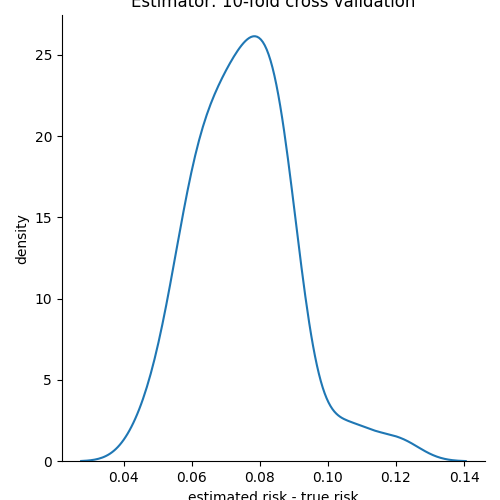
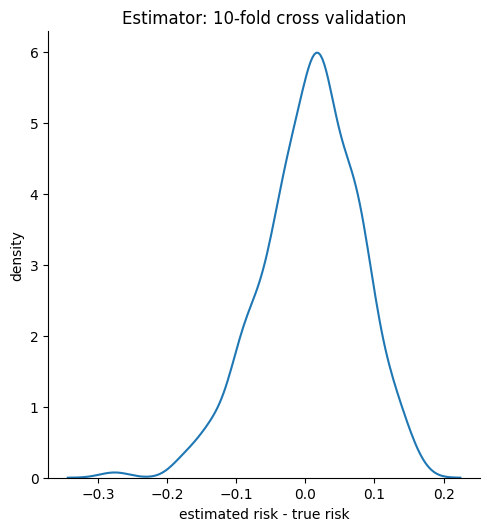
Leave-one-out bug corrected

diff --git a/homework-02/cross_validation.py b/homework-02/cross_validation.py
@@ -4,10 +4,9 @@ import numpy as np
 from sklearn.linear_model import LogisticRegression
 import matplotlib.pyplot as plt
 import seaborn as sns
-import pandas as pd
 
 
-def k_fold_cross_validation(X, y, k, model, true_risk_proxy, random_seed=1000):
+def k_fold_cross_validation(X, y, k, model, true_risk_proxy, random_seed):
     """
     Performs k-fold cross validation on the data X, y and returns the average
     difference between the true risk and the estimated risk and whether or not
@@ -40,15 +39,17 @@ def k_fold_cross_validation(X, y, k, model, true_risk_proxy, random_seed=1000):
         probabilities = model.predict_proba(X_test)
         risk_estimates += model_risks(y_test, probabilities)
     
+    risk_estimate_diff = np.mean(risk_estimates) - true_risk_proxy
+
     # Test if 95% confidence interval of the risk estimate contains the true risk
     ci = confidence_interval_of_model_risk(risk_estimates)
     if true_risk_proxy > ci[0] and true_risk_proxy < ci[1]:
-        return ([np.mean(risk_estimates)], True)
+        return (risk_estimate_diff, True)
     else:
-        return ([np.mean(risk_estimates)], False)
+        return (risk_estimate_diff, False)
 
 
-def leave_one_out_cross_validation(X, y, model, true_risk_proxy, random_seed=1000):
+def leave_one_out_cross_validation(X, y, model, true_risk_proxy, random_seed):
     """
     Performs leave-one-out cross validation on the data X, y and returns the
     average difference between the true risk and the estimated risk and whether
@@ -80,37 +81,40 @@ def leave_one_out_cross_validation(X, y, model, true_risk_proxy, random_seed=100
         probabilities = model.predict_proba(X_test.reshape(1, -1))
         risk_estimates += model_risks(np.array([y_test]), probabilities)
     
+    risk_estimate_diff = np.mean(risk_estimates) - true_risk_proxy
+
     # Test if 95% confidence interval of the risk estimate contains the true risk
     ci = confidence_interval_of_model_risk(risk_estimates)
     if true_risk_proxy > ci[0] and true_risk_proxy < ci[1]:
-        return ([np.mean(risk_estimates)], True)
+        return (risk_estimate_diff, True)
     else:
-        return ([np.mean(risk_estimates)], False)
+        return (risk_estimate_diff, False)
 
 
 def n_times_k_cross_validation(n, X, y, k, 
-                               model, true_risk_proxy, random_seed=1000):
+                               model, true_risk_proxy, random_seed):
     """
-    Performs n times k-fold cross validation on the data X, y and returns the
-    average difference between the true risk and the estimated risk and whether
-    or not confidence interval contains the true risk proxy.
+    Repeat 10-fold cross-validation for 20 different partitions and let 
+    each observation’s loss be the average of these 10.
     """
     # Set the random seed
     np.random.seed(random_seed)
 
-    # Shuffle the data
-    for _ in range(n):
+    all_risk_estimates = [[] for _ in range(len(X))]
+
+    for j in range(n):
+        # Shuffle the data
         indices = np.random.permutation(len(X))
+
         X = X[indices]
         y = y[indices]
 
-        # Split the data into k folds
-        step = len(X) // k
+        # Return average risk estimate for each observation
         risk_estimates = []
 
-        # For each fold, train the model on the remaining data and compute the risk
+        step = len(X) // k
+
         for i in range(k):
-            
             # Split the data into training and test sets
             X_train = np.vstack((X[:i*step], X[(i+1)*step:]))
             y_train = np.hstack((y[:i*step], y[(i+1)*step:]))
@@ -121,49 +125,35 @@ def n_times_k_cross_validation(n, X, y, k,
             # Train the model and compute the risk
             model.fit(X_train, y_train)
             probabilities = model.predict_proba(X_test)
-            risk_estimates += model_risks(y_test, probabilities)
+            
+            # Return risks for each observation
+            risks = model_risks(y_test, probabilities)
+
+            # Add the risks to the risk estimates
+            for r in risks:
+                risk_estimates.append(r)
+
+        # Add the risk estimates to the list of all risk estimates
+        for index, perm_index in enumerate(indices):
+            all_risk_estimates[perm_index].append(risk_estimates[index])
+
+    all_risk_estimates = [np.mean(risk) for risk in all_risk_estimates]        
+    risk_estimate_diff = np.mean(all_risk_estimates) - true_risk_proxy
 
     # Test if 95% confidence interval of the risk estimate contains the true risk
-    ci = confidence_interval_of_model_risk(risk_estimates)
+    ci = confidence_interval_of_model_risk(all_risk_estimates)
     if true_risk_proxy > ci[0] and true_risk_proxy < ci[1]:
-        return ([np.mean(risk_estimates)], True)
+        return (risk_estimate_diff, True)
     else:
-        return ([np.mean(risk_estimates)], False)
+        return (risk_estimate_diff, False)
 
-
-# 1. generate a toy dataset with 100 samples
-toy_dataset = toy_data(100, seed=1002)
-
-
-# 2. train model h_0 and compute true risk proxy
-huge_dataset = toy_data(100000, seed=1001)
-
-X = np.vstack(toy_dataset['x'].to_numpy())
-y = np.array(toy_dataset['y'])
-
-h_0 = LogisticRegression().fit(X, y)
-
-huge_X = np.vstack(huge_dataset['x'].to_numpy())
-huge_y = np.array(huge_dataset['y'])
-huge_probabilities = h_0.predict_proba(huge_X)
-
-true_risks = model_risks(huge_y, huge_probabilities)
-true_risk_proxy = np.mean(true_risks)
-
-# 3. Estimate h_0's risk using 5 estimators and repeat 500 times:
-
-# a) 2-fold cross validation
-# b) leave-one-out cross validation
-# c) 10-fold cross validation
-# d) 4-fold cross validation
-# e) 10-fold cross validation repeated 20 times
 
 saving_dict = {
-    '2-fold': [[],[]],
-    'leave-one-out': [[],[]],
-    '10-fold': [[],[]],
-    '4-fold': [[],[]],
-    '20-10-fold': [[],[]]
+    '2-fold': [[],[],[]],
+    'leave-one-out': [[],[],[]],
+    '10-fold': [[],[],[]],
+    '4-fold': [[],[],[]],
+    '20-10-fold': [[],[],[]]
 }
 
 name_key = {
@@ -174,53 +164,75 @@ name_key = {
     '20-10-fold': '10-fold cross validation repeated 20 times'
 }
 
-for i in range(50):
-    # a) 2-fold cross validation
-    risks_list, ci = k_fold_cross_validation(X, y, 2, h_0, true_risk_proxy, random_seed=2000+i)
-    saving_dict['2-fold'][0] += risks_list
-    saving_dict['2-fold'][1].append(ci)
-    # b) leave-one-out cross validation
-    risks_list, ci = leave_one_out_cross_validation(X, y, h_0, true_risk_proxy, random_seed=2000+i)
-    saving_dict['leave-one-out'][0] += risks_list
-    saving_dict['leave-one-out'][1].append(ci)
-    # c) 10-fold cross validation
-    risks_list, ci = k_fold_cross_validation(X, y, 10, h_0, true_risk_proxy, random_seed=2000+i)
-    saving_dict['10-fold'][0] += risks_list
-    saving_dict['10-fold'][1].append(ci)
-    # d) 4-fold cross validation
-    risks_list, ci = k_fold_cross_validation(X, y, 4, h_0, true_risk_proxy, random_seed=2000+i)
-    saving_dict['4-fold'][0] += risks_list
-    saving_dict['4-fold'][1].append(ci)
-    # e) 10-fold cross validation repeated 20 times
-    risks_list, ci = n_times_k_cross_validation(20, X, y, 10, h_0, true_risk_proxy, random_seed=2000+i)
-    saving_dict['20-10-fold'][0] += risks_list
-    saving_dict['20-10-fold'][1].append(ci)
+for i in range(500):
 
-    print(f"Progress: {(i + 1) / 0.5}%", end='\r')
+    # 1. generate a toy dataset with 100 samples
+    toy_dataset = toy_data(100, seed=1000+i)
+
+    # 2. train model h_0 and compute true risk proxy
+    huge_dataset = toy_data(100000, seed=1001)
+
+    X = np.vstack(toy_dataset['x'].to_numpy())
+    y = np.array(toy_dataset['y'])
+
+    h_0 = LogisticRegression().fit(X, y)
+
+    huge_X = np.vstack(huge_dataset['x'].to_numpy())
+    huge_y = np.array(huge_dataset['y'])
+    huge_probabilities = h_0.predict_proba(huge_X)
+
+    true_risks = model_risks(huge_y, huge_probabilities)
+    true_risk_proxy = np.mean(true_risks)
+
+    # 3. Estimate h_0's risk using 5 estimators and repeat 500 times:
+
+    # a) 2-fold cross validation
+    risk_difference, in_ci = k_fold_cross_validation(X, y, 2, h_0, true_risk_proxy, random_seed=2000+i)
+    saving_dict['2-fold'][0].append(risk_difference)
+    saving_dict['2-fold'][1].append(in_ci)
+    saving_dict['2-fold'][2].append(risk_difference + true_risk_proxy)
+    # b) leave-one-out cross validation
+    risk_difference, in_ci = leave_one_out_cross_validation(X, y, h_0, true_risk_proxy, random_seed=2000+i)
+    saving_dict['leave-one-out'][0].append(risk_difference)
+    saving_dict['leave-one-out'][1].append(in_ci)
+    saving_dict['leave-one-out'][2].append(risk_difference + true_risk_proxy)
+    # c) 10-fold cross validation
+    risk_difference, in_ci = k_fold_cross_validation(X, y, 10, h_0, true_risk_proxy, random_seed=2000+i)
+    saving_dict['10-fold'][0].append(risk_difference)
+    saving_dict['10-fold'][1].append(in_ci)
+    saving_dict['10-fold'][2].append(risk_difference + true_risk_proxy)
+    # d) 4-fold cross validation
+    risk_difference, in_ci = k_fold_cross_validation(X, y, 4, h_0, true_risk_proxy, random_seed=2000+i)
+    saving_dict['4-fold'][0].append(risk_difference)
+    saving_dict['4-fold'][1].append(in_ci)
+    saving_dict['4-fold'][2].append(risk_difference + true_risk_proxy)
+    # e) 10-fold cross validation repeated 20 times
+    risk_difference, in_ci = n_times_k_cross_validation(20, X, y, 10, h_0, true_risk_proxy, random_seed=2000+i)
+    saving_dict['20-10-fold'][0].append(risk_difference)
+    saving_dict['20-10-fold'][1].append(in_ci)
+    saving_dict['20-10-fold'][2].append(risk_difference + true_risk_proxy)
+
+    print(f"Progress: {(i + 1) / 5}%", end='\r')
 
 
 # 4. Compute the results
 
 # Plot densities for each estimator
 for (key, value) in saving_dict.items():
-    plt.figure(key)
-    sns.displot([(x - true_risk_proxy) for x in value[0]], kind="kde")
+    plt.figure()
+    sns.displot(value[0], kind="kde")
     plt.title(f"Estimator: {name_key[key]}")
     plt.xlabel("estimated risk - true risk")
     plt.ylabel("density")
-    plt.savefig(f"homework-02/plots/estimator_{key}.png")
-    plt.show()
-
-# Compute the true risk proxy
-print(f"True risk proxy: {true_risk_proxy}")
+    plt.savefig(f"homework-02/plots/estimator_{key}.png", bbox_inches='tight')
 
 for (key, value) in saving_dict.items():
     print('----------------------------------------')
     print(f"Estimator: {name_key[key]}")
 
     # Compute the mean difference
-    print(f"Mean difference: {np.mean(value[0]) - true_risk_proxy}")
+    print(f"Mean difference: {np.mean(value[0])}")
     # Compute the median standard error of the risk estimates
-    print(f"Median standard error: {median_standard_error(value[0])}")
+    print(f"Median standard error: {median_standard_error(value[2])}")
     # Compute % of times the 95% confidence interval contains the true risk proxy
     print(f"Confidence interval contains true risk proxy: {np.mean(value[1]) * 100}%")
